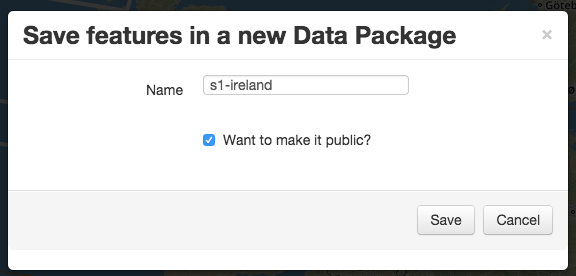
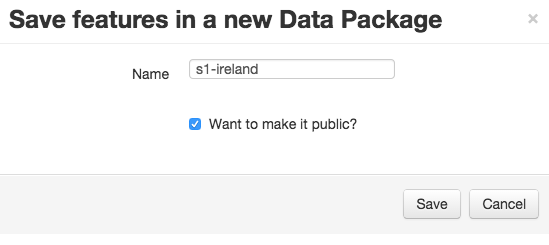
up image to figure

diff --git a/source/community-guide/platform/geobrowser.rst b/source/community-guide/platform/geobrowser.rst
@@ -4,8 +4,8 @@ GeoBrowser area for data and Cloud processing services
 GeoBrowser
 ----------
 
-.. image:: ../../includes/geobrowser.png
-	:align: center
+.. figure:: ../../includes/geobrowser.png
+	:figclass: img-border
 
 
 The GeoBrowser is composed of:
@@ -33,16 +33,16 @@ Some buttons maybe used to interact with the map:
 
 It is also possible to directly select on the map the temporal parameter of the search by moving the temporal bar.
 
-.. image:: ../../includes/geobrowser_timebar.png
-	:align: center
+.. figure:: ../../includes/geobrowser_timebar.png
+	:figclass: img-border
 
 Once all parameters are set, bbox chosen
 
 Contexts
 ~~~~~~~~
 
-.. image:: ../../includes/geobrowser_contexts.png
-	:align: center
+.. figure:: ../../includes/geobrowser_contexts.png
+	:figclass: img-border
 
 Some pre-defined context are accessible on the top of the map.
 One context is the result of a query on a specific catalog with pre-defined search parameters.
@@ -56,8 +56,8 @@ The existing pre-defined contexts are:
 Results
 ~~~~~~~
 
-.. image:: ../../includes/geobrowser_resulttab.png
-	:align: center
+.. figure:: ../../includes/geobrowser_resulttab.png
+	:figclass: img-border
 
 The result tab is divided in two parts:
 
@@ -85,8 +85,8 @@ Jobs tab
 This tab contains the list of available jobs associated to your user.
 Details on jobs can be accessed by clicking on the title of the job.
 
-.. image:: ../../includes/geobrowser_jobs.png
-	:align: center
+.. figure:: ../../includes/geobrowser_jobs.png
+	:figclass: img-border
 
 
 .. |geobrowser_button_query.png| image:: ../../includes/geobrowser_button_query.png

diff --git a/source/community-guide/user.rst b/source/community-guide/user.rst
@@ -1,9 +1,10 @@
 User
 ====
 
-.. image:: ../includes/user.png
+.. figure:: ../includes/user.png
 	:align: center
-	:width: 300px
+	:width: 30%
+	:figclass: img-container-border
 
 User must sign-in using **EO-SSO**.
 
@@ -19,8 +20,8 @@ Once registered on ESA EO Single Sign On (EOSSO), you can simply sign-in using t
 Edit your profile
 -----------------
 
-.. image:: ../includes/user_profile.png
-	:align: center
+.. figure:: ../includes/user_profile.png
+	:figclass: img-border
 	:scale: 80%
 	
 Fill in your profile:
@@ -33,8 +34,8 @@ Fill in your profile:
 Upload your certificate
 -----------------------
 
-.. image:: ../includes/user_certificate.png
-	:align: center
+.. figure:: ../includes/user_certificate.png
+	:figclass: img-border
 	:scale: 80%
 
 Certificate is the key to access the cloud environment, it is thus very important that you set it correctly in your profile.
@@ -76,8 +77,8 @@ Once all is good, the Sunstone logo will be displayed and clickable to redirect 
 Link your Github account
 ------------------------
 
-.. image:: ../includes/user_github.png
-	:align: center
+.. figure:: ../includes/user_github.png
+	:figclass: img-border
 	:scale: 70%
 
 Link your Github account to your profile will allow you to use Github as Software repository for the developments on your Sandboxes. You can also release and share your code there.

diff --git a/source/community-guide/data.rst b/source/community-guide/data.rst
@@ -1,25 +1,6 @@
 Data
 ====
 
-max width, no borders
-
-.. figure:: ../includes/data.png
-	:figclass: img-max-width
-
-max width, borders
-
-.. figure:: ../includes/data.png
-	:figclass: img-border img-max-width
-
-set width, align left, border on image
-
-.. figure:: ../includes/data.png
-	:scale: 30%
-	:align: center
-	:figclass: img-border
-
-set width, align center, border on the image container (the whole row)
-
 .. figure:: ../includes/data.png
 	:scale: 30%
 	:align: center
@@ -81,8 +62,6 @@ Data can be selected on the map as well as on the result tab.
 3. Data appears on the **Features Basket**.
 
 .. figure:: ../includes/geobrowser_basket.png
-	:align: center
-	:scale: 75%
 	:figclass: img-border
 
 Save basket as data package
@@ -98,7 +77,6 @@ To create a new data package:
 6. The data package is saved on the platform, you can re-access it later.
 
 .. figure:: ../includes/geobrowser_dp_save.png
-	:align: center
 	:scale: 75%
 	:figclass: img-border
 
@@ -112,7 +90,6 @@ To access a previously saved data package:
 3. All data from the data package are added into the current basket.
 
 .. figure:: ../includes/geobrowser_dp_load.png
-	:align: center
 	:scale: 75%
 	:figclass: img-border
 

diff --git a/source/community-guide/platform/information-areas.rst b/source/community-guide/platform/information-areas.rst
@@ -5,15 +5,15 @@ Directly on the homepage, the user can find:
 
 - a list of featured stories that may have an interest for him (more details about the story can be found by simply clicking on the provided link)
 
-.. image:: ../../includes/news_features.png
-	:align: center
+.. figure:: ../../includes/news_features.png
+	:figclass: img-border
 
 - a list of the most recent feeds from selected twitter accounts (with associated keywords to really focus the results on the geohazards)
 
-.. image:: ../../includes/news_tweets.png
-	:align: center
+.. figure:: ../../includes/news_tweets.png
+	:figclass: img-border
 
 - a list of the most recent posts from the tep geohazards `Tumblr blog <http://geohazards-tep.tumblr.com>`_.
 
-.. image:: ../../includes/news_tumblr.png
-	:align: center
+.. figure:: ../../includes/news_tumblr.png
+	:figclass: img-border

diff --git a/source/community-guide/visualisation.rst b/source/community-guide/visualisation.rst
@@ -1,15 +1,16 @@
 Visualisation
 =============
 
-.. image:: ../includes/visualisation.png
+.. figure:: ../includes/visualisation.png
 	:align: center
-	:scale: 50 %
+	:scale: 50%
+	:figclass: img-container-border
 
 Access job result
 -----------------
 
-.. image:: ../includes/job_results.png
-	:align: center
+.. figure:: ../includes/job_results.png
+	:figclass: img-border
 	:scale: 50 %
 
 To visualize job's result:

diff --git a/source/community-guide/platform/menu-bar.rst b/source/community-guide/platform/menu-bar.rst
@@ -9,8 +9,8 @@ The menu bar is always visible, apart from the geobrowser page. It contains the 
 - `Community`_,
 - `EO sector Collaboration`_
 
-.. image:: ../../includes/home_menubar.png
-	:align: center
+.. figure:: ../../includes/home_menubar.png
+	:figclass: img-border
 
 Home
 ----

diff --git a/source/community-guide/reproducibility.rst b/source/community-guide/reproducibility.rst
@@ -1,9 +1,10 @@
 Reproducibility
 ===============
 
-.. image:: ../includes/reproducibility.png
+.. figure:: ../includes/reproducibility.png
 	:align: center
 	:scale: 30%
+	:figclass: img-container-border
 
 Discover existing jobs
 ----------------------

diff --git a/source/community-guide/sharing.rst b/source/community-guide/sharing.rst
@@ -1,9 +1,10 @@
 Sharing
 =======
 
-.. image:: ../includes/sharing.png
+.. figure:: ../includes/sharing.png
 	:align: center
-	:scale: 50 %
+	:scale: 50%
+	:figclass: img-container-border
 
 Share process result
 --------------------

diff --git a/source/community-guide/processing.rst b/source/community-guide/processing.rst
@@ -1,8 +1,9 @@
 Processing
 ==========
 
-.. image:: ../includes/processing.png
+.. figure:: ../includes/processing.png
 	:align: center
+	:figclass: img-container-border
 	:scale: 50%
 
 Discover existing WPS 
